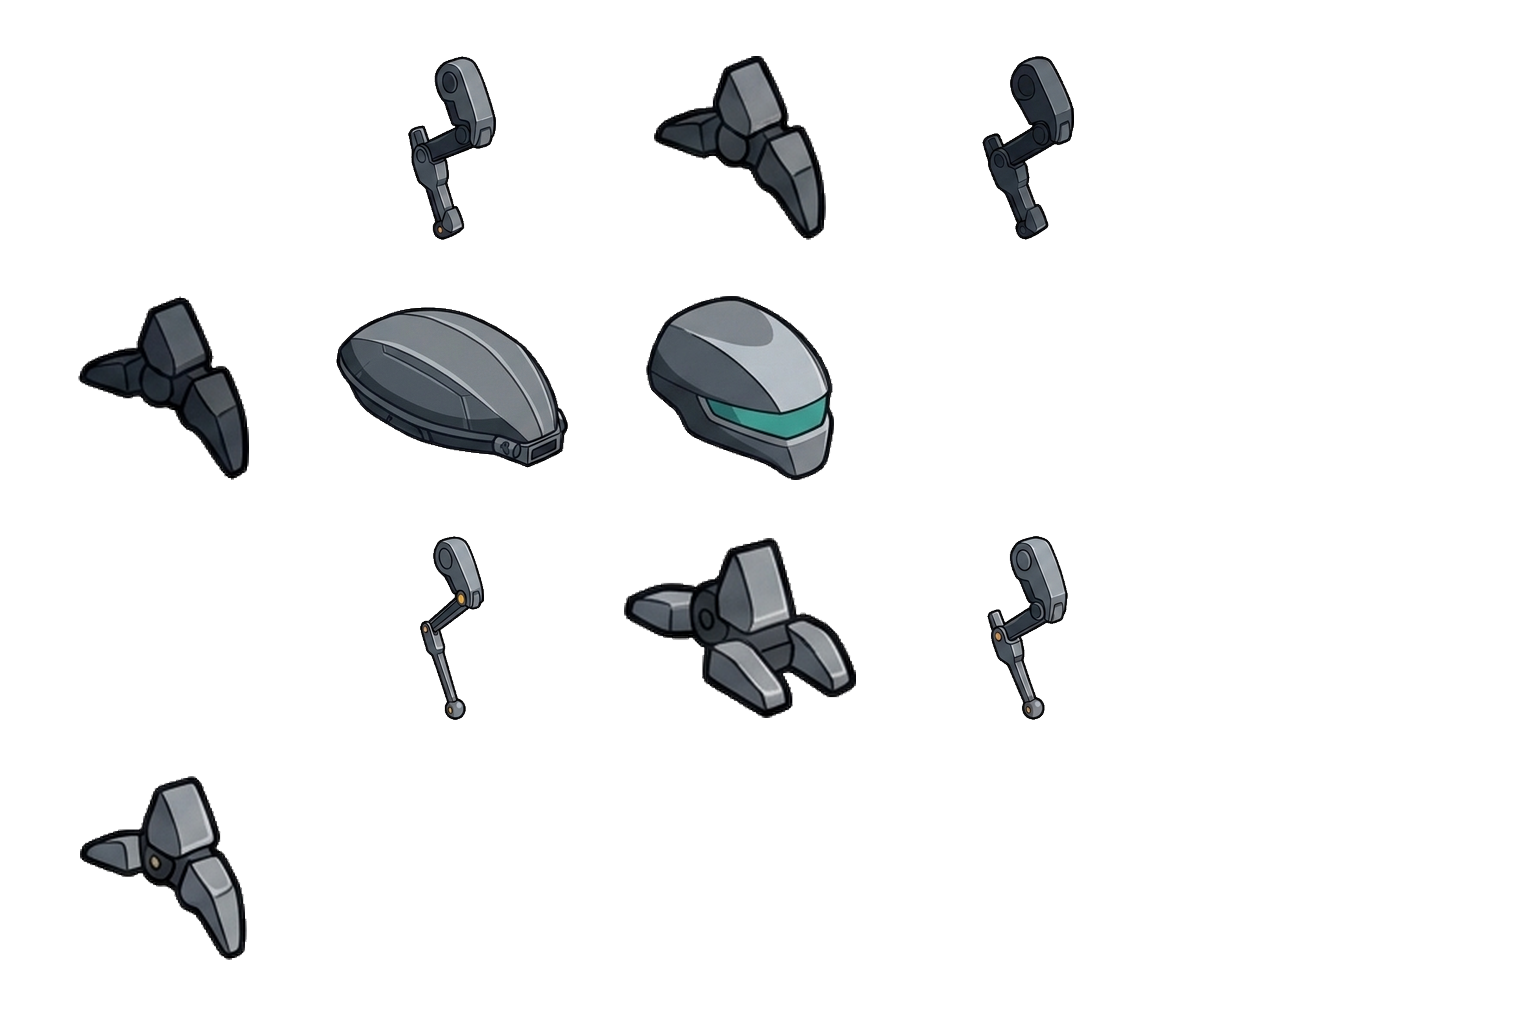
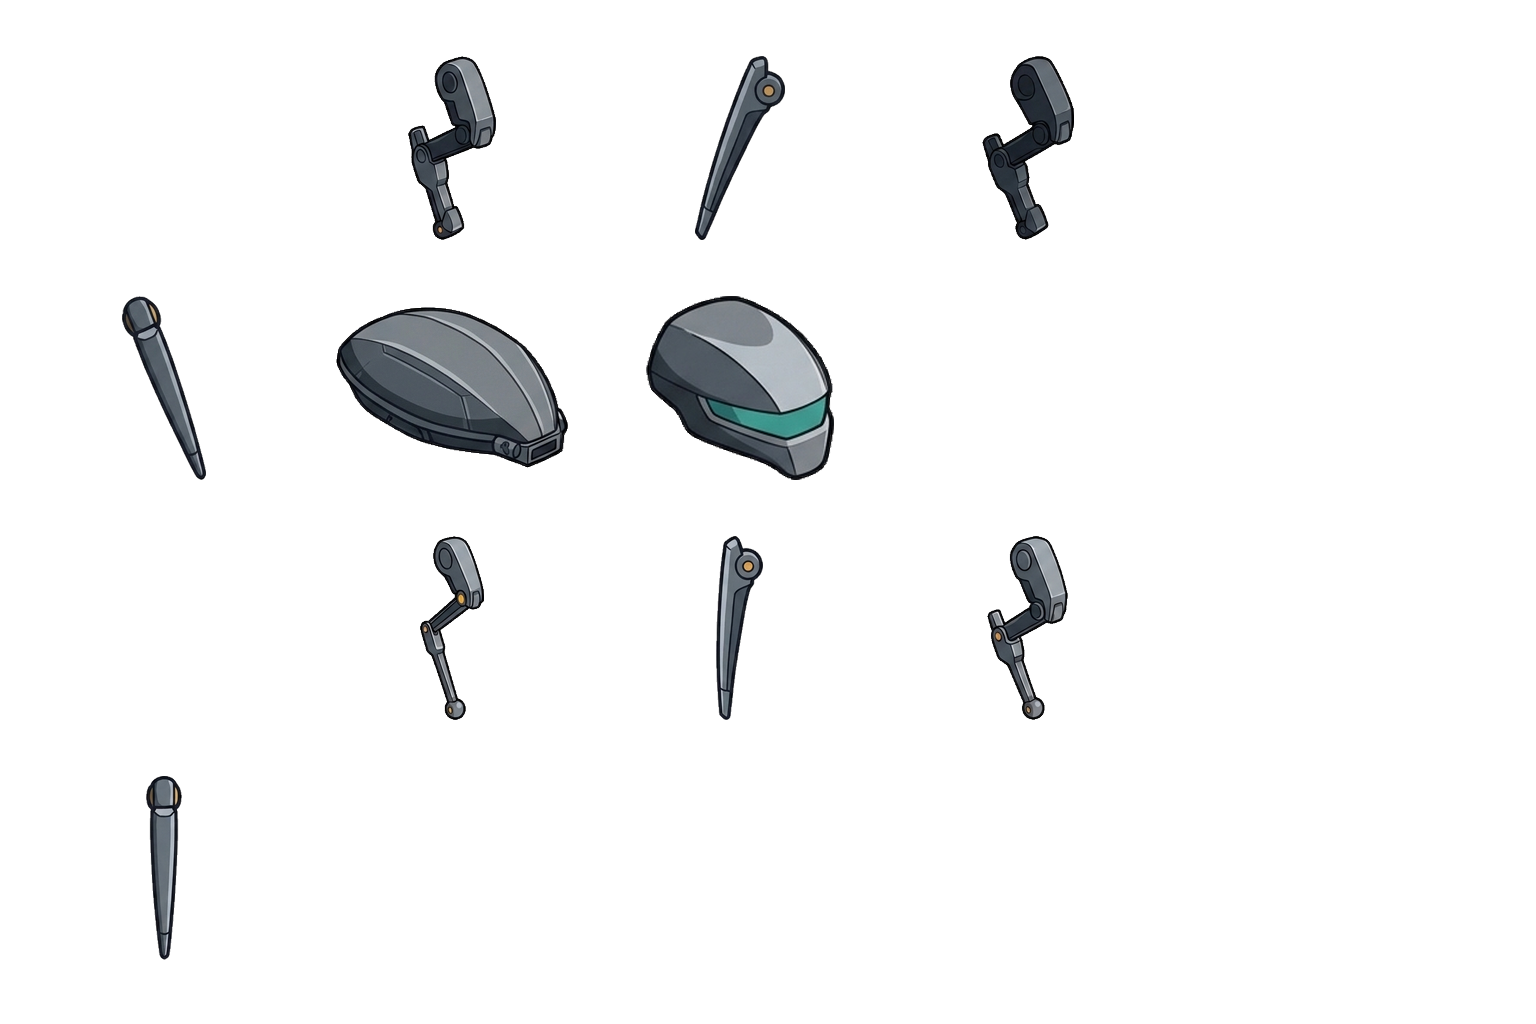
기계 군단 몬스터 20개체 분해 시트 완성 및 runner T1·T3 재요청 반영

diff --git a/asset-source/r6/monsters/machine/STATUS.md b/asset-source/r6/monsters/machine/STATUS.md
@@ -1,10 +1,9 @@
 # 기계 군단 (`machine`) 분해 시트 진행 현황
 
 - 기준: `docs/renewal/r6/PRD-r6.md` §4, `docs/renewal/r6/tech/monster-pipeline.md`, `docs/renewal/r6/bible/monsters.md`
-- 진행률: **13 / 20 완료** (`cut_parts.py` 절단 검증 통과 13개 · Codex 리깅 재요청 2건 대기)
-- 한도 중단: 이미지 생성 할당량 소진 유지 (`HTTP 429 RESOURCE_EXHAUSTED`, 2026-11-25 20:08 KST 재확인 기준 남은 시간 42분 → 리셋 예정: **2026-11-25 20:51 KST** 전후)
+- 진행률: **20 / 20 완료** (`cut_parts.py` 절단 검증 통과 20개 · `REDO.md` 조립 재요청 2건 반영 완료)
 
-## 완료 목록 (13개체)
+## 완료 목록 (20개체)
 
 | 개체 | 안내판 | 배율 | 슬롯 수 | 재사용 부위 | 절단 검사 |
 |---|---|---:|---:|---|---|
@@ -12,28 +11,25 @@
 | `infantry/T2` | `infantry-biped.json` | 1.05 | 11 (`+armor`) | `leg-*`, `leg-foot-*` ← `T1` | 통과 (`issues=0`, IoU 0.552) |
 | `infantry/T3` | `infantry-biped.json` | 1.15 | 11 (`+armor`) | `leg-*`, `leg-foot-*` ← `T1`; `arm-*`, `arm-hand-*` ← `T2` | 통과 (`issues=0`, IoU 0.549) |
 | `infantry/T4` | `infantry-biped.json` | 1.28 | 11 (`+armor`) | 없음(전 부위 신규) | 통과 (`issues=0`, IoU 0.504) |
-| `runner/T1` | `runner-quadruped.json` | 0.85 | 10 | 없음(기본) | 통과 (`issues=0`, IoU 0.424) |
+| `runner/T1` | `runner-quadruped.json` | 0.85 | 10 | 없음(기본 · **REDO 반영: 발 4부위 긴 바늘형 재작화**) | 통과 (`issues=0`, 기본 IoU 0.442 / placement 0.672) |
 | `runner/T2` | `runner-quadruped.json` | 0.95 | 11 (`+armor`) | 없음(늑대형 신규) | 통과 (`issues=0`, IoU 0.410) |
-| `runner/T3` | `runner-quadruped.json` | 1.05 | 12 (`+armor`, `+gear`) | `leg-*-*` 8슬롯 ← `T2` | 통과 (`issues=0`, IoU 0.464) |
+| `runner/T3` | `runner-quadruped.json` | 1.05 | 12 (`+armor`, `+gear`) | 없음(**REDO 반영: 다리·발 8부위 T3 보폭/각도 신규 작화**) | 통과 (`issues=0`, 기본 IoU 0.452 / placement 0.626) |
 | `runner/T4` | `runner-quadruped.json` | 1.18 | 12 (`+armor`, `+gear`) | `leg-*-*` 8슬롯 ← `T2` | 통과 (`issues=0`, IoU 0.483) |
 | `armored/T1` | `armored-quadruped.json` | 1.10 | 11 (`+gear`) | 없음(기본) | 통과 (`issues=0`, IoU 0.589) |
 | `armored/T2` | `armored-quadruped.json` | 1.22 | 11 (`+armor`) | 없음(갑충형 신규) | 통과 (`issues=0`, IoU 0.556) |
 | `armored/T3` | `armored-quadruped.json` | 1.35 | 12 (`+armor`, `+gear`) | `leg-*-*` 8슬롯 ← `T1` | 통과 (`issues=0`, IoU 0.586) |
+| `armored/T4` | `armored-quadruped.json` | 1.50 | 12 (`+armor`, `+gear`) | `leg-*-*` 8슬롯 ← `T1` (4족·V방패·2연장 포탑 신규) | 통과 (`issues=0`, IoU 0.557) |
 | `special/T1` | `special-swarm.json` | 1.00 | 2 (`body`, `swarm-1`) | 없음(기본) | 통과 (`issues=0`, IoU 0.555) |
+| `special/T2` | `special-swarm.json` | 1.12 | 3 (`body`, `swarm-1~2`) | 없음(쌍열 수송기 신규) | 통과 (`issues=0`, IoU 0.595) |
+| `special/T3` | `special-swarm.json` | 1.25 | 3 (`body`, `swarm-1~2`) | 없음(4로터 모함 신규) | 통과 (`issues=0`, IoU 0.476) |
+| `special/T4` | `special-swarm.json` | 1.38 | 4 (`body`, `swarm-1~3`) | 없음(링 공중모함 신규) | 통과 (`issues=0`, IoU 0.704) |
 | `boss-t1/T1` | `boss-quadruped.json` | 1.65 | 11 (`+armor`) | 없음(기본) | 통과 (`issues=0`, IoU 0.401) |
+| `boss-t2/T2` | `boss-quadruped.json` | 1.80 | 12 (`+armor`, `+gear`) | 없음(스텔스 기체·날개·추진체 신규, 4족 다리 포함) | 통과 (`issues=0`, IoU 0.418) |
+| `boss-t3/T3` | `boss-quadruped.json` | 2.00 | 12 (`+armor`, `+gear`) | 없음(쌍동 항공기함·도킹베이·추진체 신규, 4족 착륙각 포함) | 통과 (`issues=0`, IoU 0.435) |
+| `boss-t4/T4` | `boss-quadruped.json` | 2.20 | 12 (`+armor`, `+gear`) | 없음(공성 차체·V방패·2연장 포탑 신규, 중량 4족 다리 포함) | 통과 (`issues=0`, IoU 0.474) |
 
-## 남은 목록 (7개체 · 429 한도 해제 후 재개)
+## 재요청 반영 (`REDO.md`, 2회차 완료)
 
-- `armored/T4` (`armored-quadruped.json`, scale 1.50 — 1차 시안은 2족 조립·다리 스텀프 혼입으로 탈락, 2차 재생성 중 429 발생)
-- `special/T2` (`special-swarm.json`, scale 1.12 — 생성 중 429 발생)
-- `special/T3` (`special-swarm.json`, scale 1.25 — 생성 중 429 발생)
-- `special/T4` (`special-swarm.json`, scale 1.38)
-- `boss-t2/T2` (`boss-quadruped.json`, scale 1.80)
-- `boss-t3/T3` (`boss-quadruped.json`, scale 2.00)
-- `boss-t4/T4` (`boss-quadruped.json`, scale 2.20)
-
-## 재요청 및 32px 외곽선 기준 (`REDO.md`, 2회차 우선 처리)
-
-- `runner/T1/sheet.png`: 앞·뒷발(`leg-fore-foot-*`, `leg-hind-foot-*`) 4부위를 조립 원화와 같은 긴 바늘형 발끝으로 재작화 (현재 조립 IoU 0.655). `placement.json`·`report.json` 유지.
-- `runner/T3/sheet.png`: T2에서 재사용한 앞·뒷다리·발 8부위를 T3 원화의 보폭과 발목 각도·몸통 옆 위치에 맞춰 신규 작화 (현재 조립 IoU 0.639). `placement.json`·`report.json` 유지.
-- 32px 외곽선 차별화: 새로 그리는 기계 개체는 넓은 상자형 몸통을 피하고, 다리 사이 빈 공간과 장비·방패·로터 돌출로 바위 개체와 차이를 둔다. `armored/T4`는 사족 조립 기준을 준수한다.
+- `runner/T1/sheet.png`: 앞·뒷발(`leg-fore-foot-*`, `leg-hind-foot-*`) 4부위를 조립 원화와 같은 긴 바늘형 발끝으로 재작화 (`placement.json`·`report.json` 유지).
+- `runner/T3/sheet.png`: T2 재사용을 해제하고 T3 원화의 보폭·발목 각도에 맞춘 기계 늑대 다리·발 8부위로 신규 작화 (`placement.json`·`report.json` 유지).
+- `armored/T4`, `boss-t2~t4`: 32px 외곽선 차별화를 위해 넓은 상자형 몸통을 피하고 다리 사이 빈 공간과 V형 방패·2연장 포탑·스텔스 날개 돌출을 적용함.
